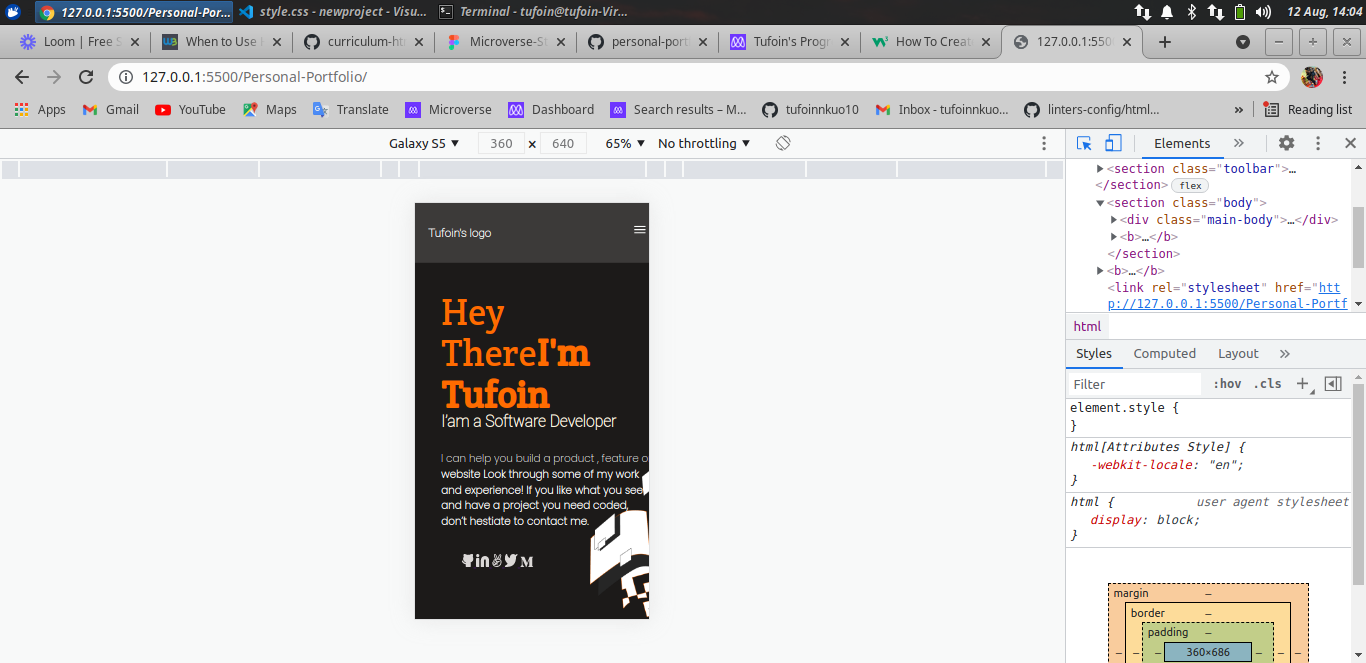
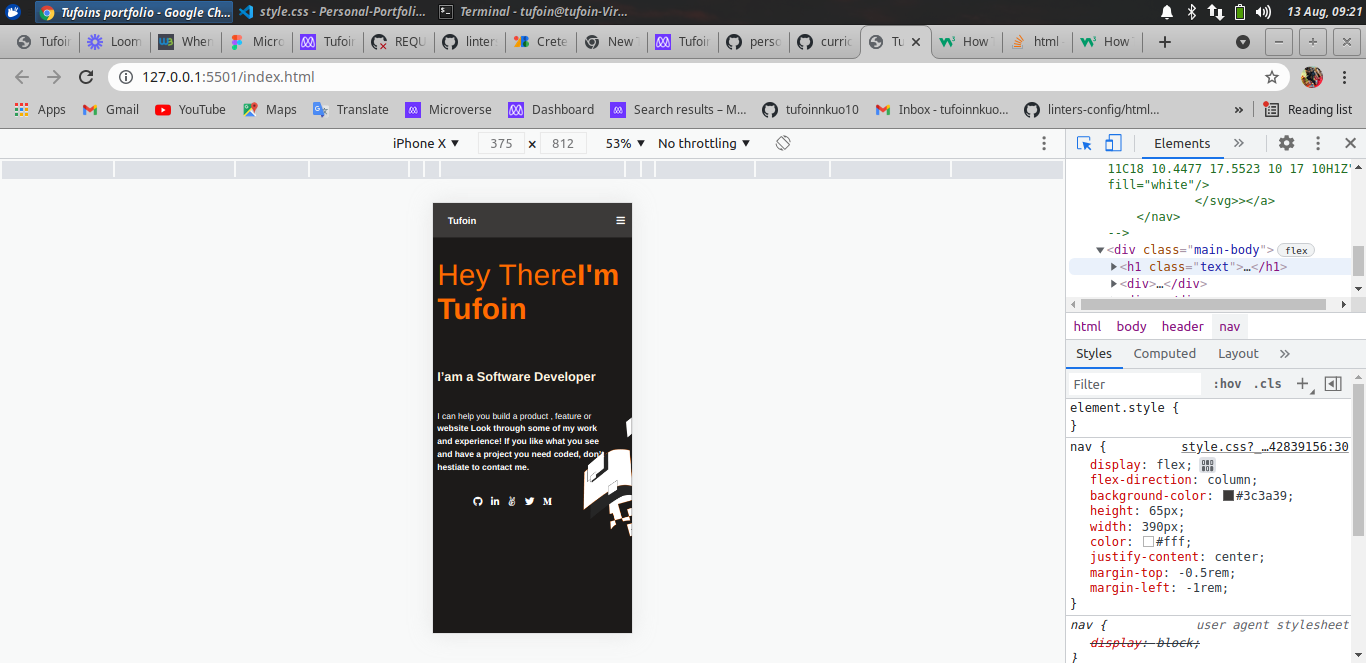
MODIFY INDEX FILE, CSS FILE, HEADER, ADD SCREENSHOT TO README

diff --git a/index.html b/index.html
@@ -9,22 +9,43 @@
     <meta http-equiv="X-UA-Compatible" content="IE=edge">
     <meta name="viewport" content="width=device-width, initial-scale=1.0">
     <title>Tufoins portfolio</title>
-    <link rel="stylesheet" href="style.css" href="https://fonts.googleapis.com/css2?family=Crete+Round&display=swap|Roboto|poppins" href="https://cdnjs.cloudflare.com/ajax/libs/font-awesome/4.7.0/css/font-awesome.min.css"> rel="stylesheet">>
-
+    <link rel="stylesheet" href="https://cdnjs.cloudflare.com/ajax/libs/font-awesome/4.7.0/css/font-awesome.min.css">
+    <link rel="stylesheet" href="style.css" href="https://fonts.googleapis.com/css2?family=Crete+Round&display=swap|Roboto|poppins" href="https://cdnjs.cloudflare.com/ajax/libs/font-awesome/4.7.0/css/font-awesome.min.css"> 
+    <script src="https://kit.fontawesome.com/4f02d055e5.js" crossorigin="anonymous"></script>
 </head>
 
 
 <body>
-    <div class="topnav">
+    <header>
+        <nav>
+            <ul>
+                <li><a href="/">Tufoin</a></li>
+                <li><a href="#"><i class="fas fa-bars hamburger-icon menu"></i></a></li>
+            </ul>
+        </nav>
+    </header>
+    <!--<div class="topnav">
+        <a href="#home" class="active">TUFOIN</a>
+        
+        <div id="myLinks">
+          <a href="#contact">Contact</a>
+          <a href="#about">About</a>
+        </div>
+        <a href="javascript:void(0);" class="icon" onclick="myFunction()">
+          <i class="fa fa-bars"></i>
+        </a>
+      </div>
+    <!--<div class="topnav">
         <nav>
             <ul>
                 <li>
-                    <a class ="name" href="#name">TUFOIN</a>
+                    <a class ="name" href="#logo">TUFOIN</a>
                 </li>
                 <li>
                     <a class="menu-logo" href="#"><svg width="18" height="12" viewBox="0 0 18 12" fill="none" xmlns="http://www.w3.org/2000/svg">
                         <path fill-rule="evenodd" clip-rule="evenodd" d="M0 1C0 0.447715 0.447715 0 1 0H17C17.5523 0 18 0.447715 18 1C18 1.55228 17.5523 2 17 2H1C0.447715 2 0 1.55228 0 1ZM0 6C0 5.44772 0.447715 5 1 5L17 5C17.5523 5 18 5.44772 18 6C18 6.55229 17.5523 7 17 7L1 7C0.447715 7 0 6.55228 0 6ZM1 10C0.447715 10 0 10.4477 0 11C0 11.5523 0.447715 12 1 12H17C17.5523 12 18 11.5523 18 11C18 10.4477 17.5523 10 17 10H1Z" fill="white"/>
-                        </svg>></a>
+                        </svg>
+                    </a>
                 </li>
             </ul>
         </nav>
@@ -53,33 +74,13 @@
       <!--beginning of online icons section-->
             
       <div class="online-icons">
-        <a href=""><svg width="18" height="20" viewBox="0 0 18 20" fill="none" xmlns="http://www.w3.org/2000/svg">
-                <path
-                    d="M17.9989 7.46114C17.9989 6.32124 17.6329 5.25043 16.9342 4.31779C17.2004 3.41969 17.2669 2.27979 17.2004 0.967185C17.1671 0.414508 16.7345 0 16.2022 0C15.9028 0 13.3741 0.0345423 11.9101 1.38169C10.6458 1.1399 9.31495 1.1399 8.01736 1.38169C6.58667 0.0345423 4.05802 0 3.7253 0C3.19296 0 2.76042 0.414508 2.72715 0.967185C2.62734 2.27979 2.72715 3.41969 2.99333 4.31779C2.29462 5.28497 1.92863 6.35579 1.92863 7.46114C1.92863 9.8791 3.7253 12.0553 6.45358 13.0915C6.35377 13.2988 6.28723 13.5406 6.22068 13.7824C3.32604 13.4715 1.9619 10.7427 1.89536 10.639C1.66246 10.1209 1.06357 9.91364 0.56449 10.19C0.0654144 10.4318 -0.134216 11.0535 0.131958 11.5717C0.198501 11.7444 2.02845 15.4404 6.05432 15.8549V18.9637C6.05432 19.5509 6.48686 20 7.05248 20H12.875C13.4406 20 13.8732 19.5509 13.8732 18.9637V14.8532C13.8732 14.2314 13.7401 13.6442 13.5072 13.1261C16.2022 12.0553 17.9989 9.91364 17.9989 7.46114Z"
-                    fill="#DBD8D7" />
-            </svg>
-        </a>
-        <a href=""><svg width="20" height="20" viewBox="0 0 20 20" fill="none" xmlns="http://www.w3.org/2000/svg">
-            <path d="M13.6439 3.03442C10.1551 3.03442 7.28809 5.86201 7.28809 9.37925V19.3103C7.28809 19.6896 7.59897 19.9999 7.97893 19.9999H11.5713C11.9513 19.9999 12.2622 19.6896 12.2622 19.3103V9.65511C12.2622 8.89649 12.8839 8.2758 13.6439 8.2758C14.4038 8.2758 15.0256 8.89649 15.0256 9.65511V19.3103C15.0256 19.6896 15.3364 19.9999 15.7164 19.9999H19.3088C19.6888 19.9999 19.9997 19.6896 19.9997 19.3103V9.37925C19.9997 5.89649 17.1672 3.03442 13.6439 3.03442Z" fill="#DBD8D7"/>
-            <path d="M4.28325 6.27588H0.690846C0.310881 6.27588 0 6.58622 0 6.96553V19.3104C0 19.6897 0.310881 20 0.690846 20H4.28325C4.66321 20 4.97409 19.6897 4.97409 19.3104V6.96553C4.97409 6.58622 4.66321 6.27588 4.28325 6.27588Z" fill="#DBD8D7"/>
-            <path d="M2.48705 0C1.10535 0 0 1.10345 0 2.48276C0 3.86207 1.10535 4.96552 2.48705 4.96552C3.86874 4.96552 4.97409 3.86207 4.97409 2.48276C4.97409 1.10345 3.86874 0 2.48705 0Z" fill="#DBD8D7"/>
-            </svg>
-        </a>
-        <a href="">
-            <svg width="16" height="20" viewBox="0 0 16 20" fill="none" xmlns="http://www.w3.org/2000/svg">
-                <path d="M7.4645 20C12.1612 20 15.0837 16.5392 15.0837 12.0742C15.0837 10.3908 14.8095 8.87083 12.8987 8.41417C13.3637 7.14083 14.7053 3.4575 14.7053 2.2775C14.7053 1.23833 14.0803 0.3675 12.9662 0.3675C11.1903 0.3675 9.59866 5.51167 9.10033 6.73833C8.7145 5.625 6.90783 0 5.31533 0C4.07783 0 3.497 0.894167 3.497 2.01917C3.497 3.39833 4.85783 6.9725 5.35116 8.3475C5.10116 8.2575 4.83033 8.17917 4.5545 8.17917C3.62283 8.17917 2.632 9.31583 2.632 10.2342C2.632 10.5817 2.827 11.07 2.95033 11.3942C1.482 11.785 0.916997 12.7458 0.916997 14.195C0.91283 17.015 3.63616 20 7.4645 20ZM11.4895 4.21917C11.6495 3.73833 12.3295 1.7075 12.9662 1.7075C13.3087 1.7075 13.4003 2.055 13.4003 2.3325C13.4003 3.07833 11.8645 7.2 11.5253 8.11333L10.172 7.87917L11.4895 4.21917ZM4.747 1.8875V1.88667C4.747 1.42167 5.3245 0.101667 6.5895 3.72667L7.967 7.645C7.34616 7.59417 6.8645 7.5275 6.55866 7.7C6.1245 6.575 4.747 3.02417 4.747 1.8875ZM4.65533 9.53083L4.65616 9.53167C5.822 9.53167 7.327 13.2267 7.327 13.7267C7.327 13.9258 7.132 14.1717 6.90533 14.1717C6.07283 14.1717 3.84366 11.1675 3.84366 10.355C3.847 10.0542 4.34866 9.53083 4.65533 9.53083ZM3.31533 12.5892C3.76866 12.5892 5.47616 14.945 5.47616 15.445C5.47616 15.6367 5.1695 15.7692 5.01116 15.7692C4.37033 15.7692 4.1195 15.1633 2.97783 13.7617C1.79533 14.9217 3.79366 17.1558 5.29866 17.1558C6.337 17.1558 7.01366 16.2108 6.81116 15.515C6.95866 15.515 7.14116 15.5267 7.277 15.4917C7.32116 16.55 7.6395 17.8117 8.937 17.9017C8.937 17.8667 9.017 17.6242 9.017 17.6125C9.017 16.9325 8.59533 16.3392 8.59533 15.6475C8.59533 14.5417 9.45866 13.4717 10.3345 12.8467C10.6528 12.6125 11.0395 12.4675 11.4128 12.335C11.7995 12.1908 12.2095 12.0225 12.5028 11.7333C12.4587 11.2958 12.2762 10.9092 11.8303 10.9092C10.7278 10.9092 7.03033 11.0658 7.03033 9.35833C7.03033 9.09667 7.0345 8.84667 7.72366 8.84667C9.0095 8.84667 12.2737 9.15917 13.2287 9.98333C13.9487 10.6125 14.1962 14.405 11.9945 16.8075L11.992 16.8083C10.8337 18.0583 9.35283 18.7067 7.62533 18.7067C5.26116 18.7067 3.39366 17.4333 2.4945 15.2575C1.81366 13.5625 2.64616 12.5892 3.31533 12.5892ZM8.06616 11.8858C8.45366 12.0075 8.85116 12.0433 9.2495 12.1208C8.9545 12.3317 8.69283 12.59 8.44116 12.8667C8.3295 12.535 8.19366 12.2108 8.06616 11.8858Z" fill="#DBD8D7"/>
-                </svg>
-        </a>
-        <a href="">
-            <svg width="20" height="20" viewBox="0 0 20 20" fill="none" xmlns="http://www.w3.org/2000/svg">
-                <path d="M19.7665 0.369765C19.4331 -0.0289051 18.8665 -0.128573 18.4331 0.17043L16.4998 1.49933C15.5998 0.535877 14.3331 0.00431735 12.9665 0.00431735C10.2665 0.00431735 8.03313 2.197 8.03313 4.92125C8.03313 5.31992 8.06646 5.68537 8.16646 6.05081C5.83313 5.55248 4.43313 3.85813 3.8998 0.801657C3.83313 0.402987 3.53313 0.103985 3.13313 0.00431735C2.76646 -0.0953502 2.36646 0.0707624 2.13313 0.369765C2.06646 0.43621 -3.43354 8.07739 4.53313 14.5558C3.76646 16.1837 1.46646 17.579 0.566463 18.0441C0.13313 18.2435 -0.06687 18.7086 0.03313 19.1737C0.13313 19.6388 0.53313 19.9378 0.999797 19.9378H2.73313C12.8665 19.9378 17.4665 14.9212 17.5665 3.69202L19.6665 1.69867C20.0665 1.36644 20.0998 0.768435 19.7665 0.369765Z" fill="#DBD8D7"/>
-                </svg>
-        </a>
-        <a href="">
-            <svg width="20" height="16" viewBox="0 0 20 16" fill="none" xmlns="http://www.w3.org/2000/svg">
-                <path d="M18.4042 1.88042L20 0.337684V0H14.4717L10.5317 9.90989L6.04917 0H0.2525V0.337684L2.11667 2.60547C2.29833 2.77305 2.39333 3.01811 2.36917 3.26484V12.1768C2.42667 12.4977 2.32333 12.8278 2.1 13.0611L0 15.6328V15.9663H5.95417V15.6286L3.85417 13.0611C3.62667 12.8269 3.51917 12.5027 3.565 12.1768V4.46821L8.79167 15.9705H9.39917L13.8933 4.46821V13.6312C13.8933 13.8728 13.8933 13.9225 13.7367 14.0808L12.12 15.6615V16H19.9633V15.6623L18.405 14.1204C18.2683 14.016 18.1975 13.8408 18.2267 13.6707V2.33011C18.1975 2.15916 18.2675 1.984 18.4042 1.88042Z" fill="#DBD8D7"/>
-                </svg>
-        </a>
+        <ul>
+            <li><a href="/"><i class="fab fa-github"></i></a></li>
+            <li><a href="/"><i class="fab fa-linkedin-in"></i></a></li>
+            <li><a href="/"><i class="fab fa-angellist"></i></a></li>
+            <li><a href="/"><i class="fab fa-twitter"></i></a></li>
+            <li><a href="/"><i class="fab fa-medium-m"></i></a></li>
+        </ul>
         
     </div>       
 </body>

diff --git a/style.css b/style.css
@@ -7,23 +7,48 @@ body {
   height: 670px;
 }
 
-.topnav {
-  background-color: #3c3a39;
-  overflow: auto;
-  width: 375px;
-  align-items: baseline;
-  display: flex;
-  position: absolute;
-  height: 80px;
-
-}
-
 ul {
   display: flex;
   justify-content: space-between;
   list-style-type: none;
   padding: 0 20px 0 20px;
 }
+
+li {
+  font-family: 'Roboto', sans-serif;
+  font-size: 18px;
+  font-style: normal;
+  font-weight: 700;
+  line-height: 24px;
+}
+
+a {
+  text-decoration: none;
+  color: #fff;
+}
+
+nav {
+  display: flex;
+  flex-direction: column;
+  background-color: #3c3a39;
+  height: 65px;
+  width: 390px;
+  color: #fff;
+  justify-content: center;
+  margin-top: -0.5rem;
+  margin-left: -1rem;
+  
+}
+
+/*.topnav {
+  background-color: #3c3a39;
+  overflow: auto;
+  width: 375px;
+  align-items: baseline;
+  display: flex;
+  height: 80px;
+}
+*/
 .name {
   justify-content: flex-start;
   color: white;
@@ -37,7 +62,6 @@ ul {
 .menu-logo {
   display: flex;
   justify-content: flex-end;
-  position: absolute;
   float: right;
 }
 
@@ -47,7 +71,7 @@ ul {
 }
 
 .text {
-  font-family: 'Crete-Round',sans-serif;
+  font-family: 'Crete-Round', sans-serif;
   font-style: normal;
   font-weight: normal;
   font-size: 56px;
@@ -92,5 +116,11 @@ p {
   list-style-type: none;
   padding-left: 2rem;
   flex-direction: column;
-  margin-top: 5%;
+  margin-top: 5px;
+}
+
+.online,
+a {
+  padding-left: 1rem;
+  color: #fff;
 }
